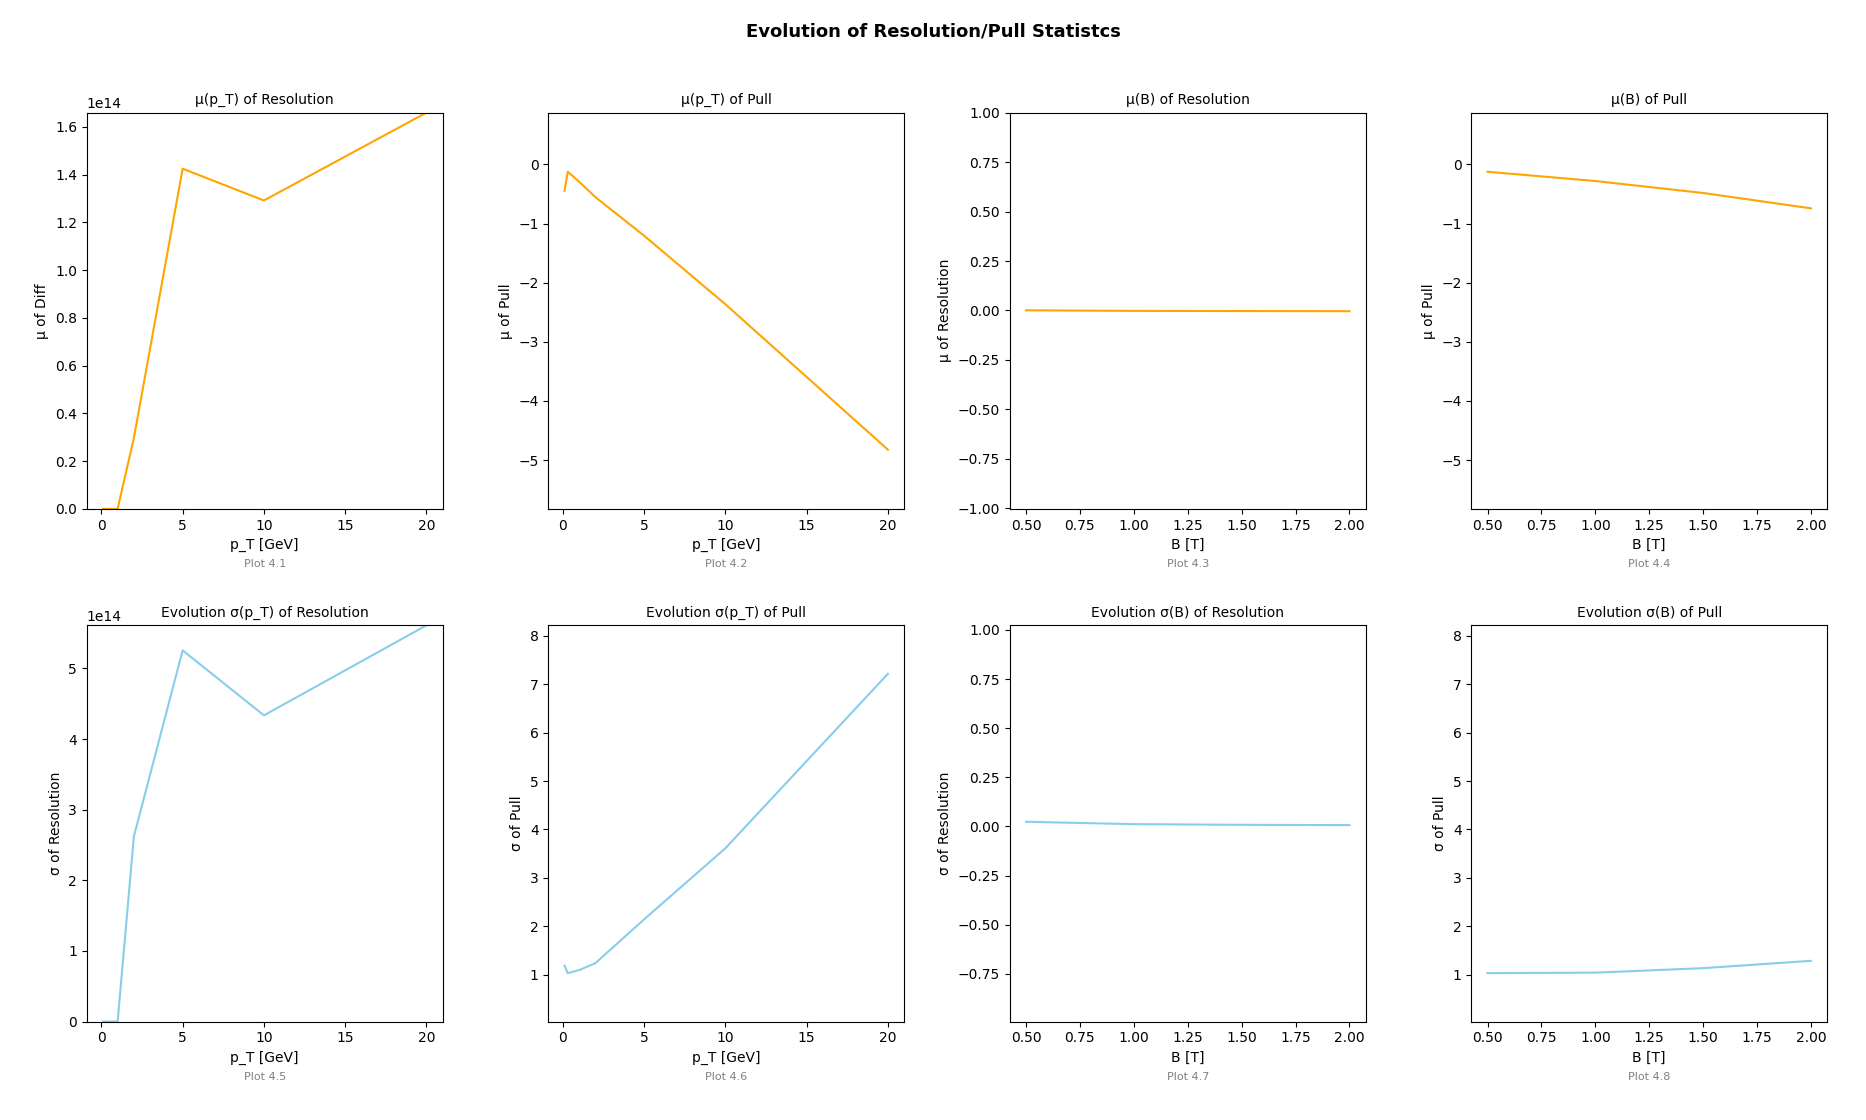
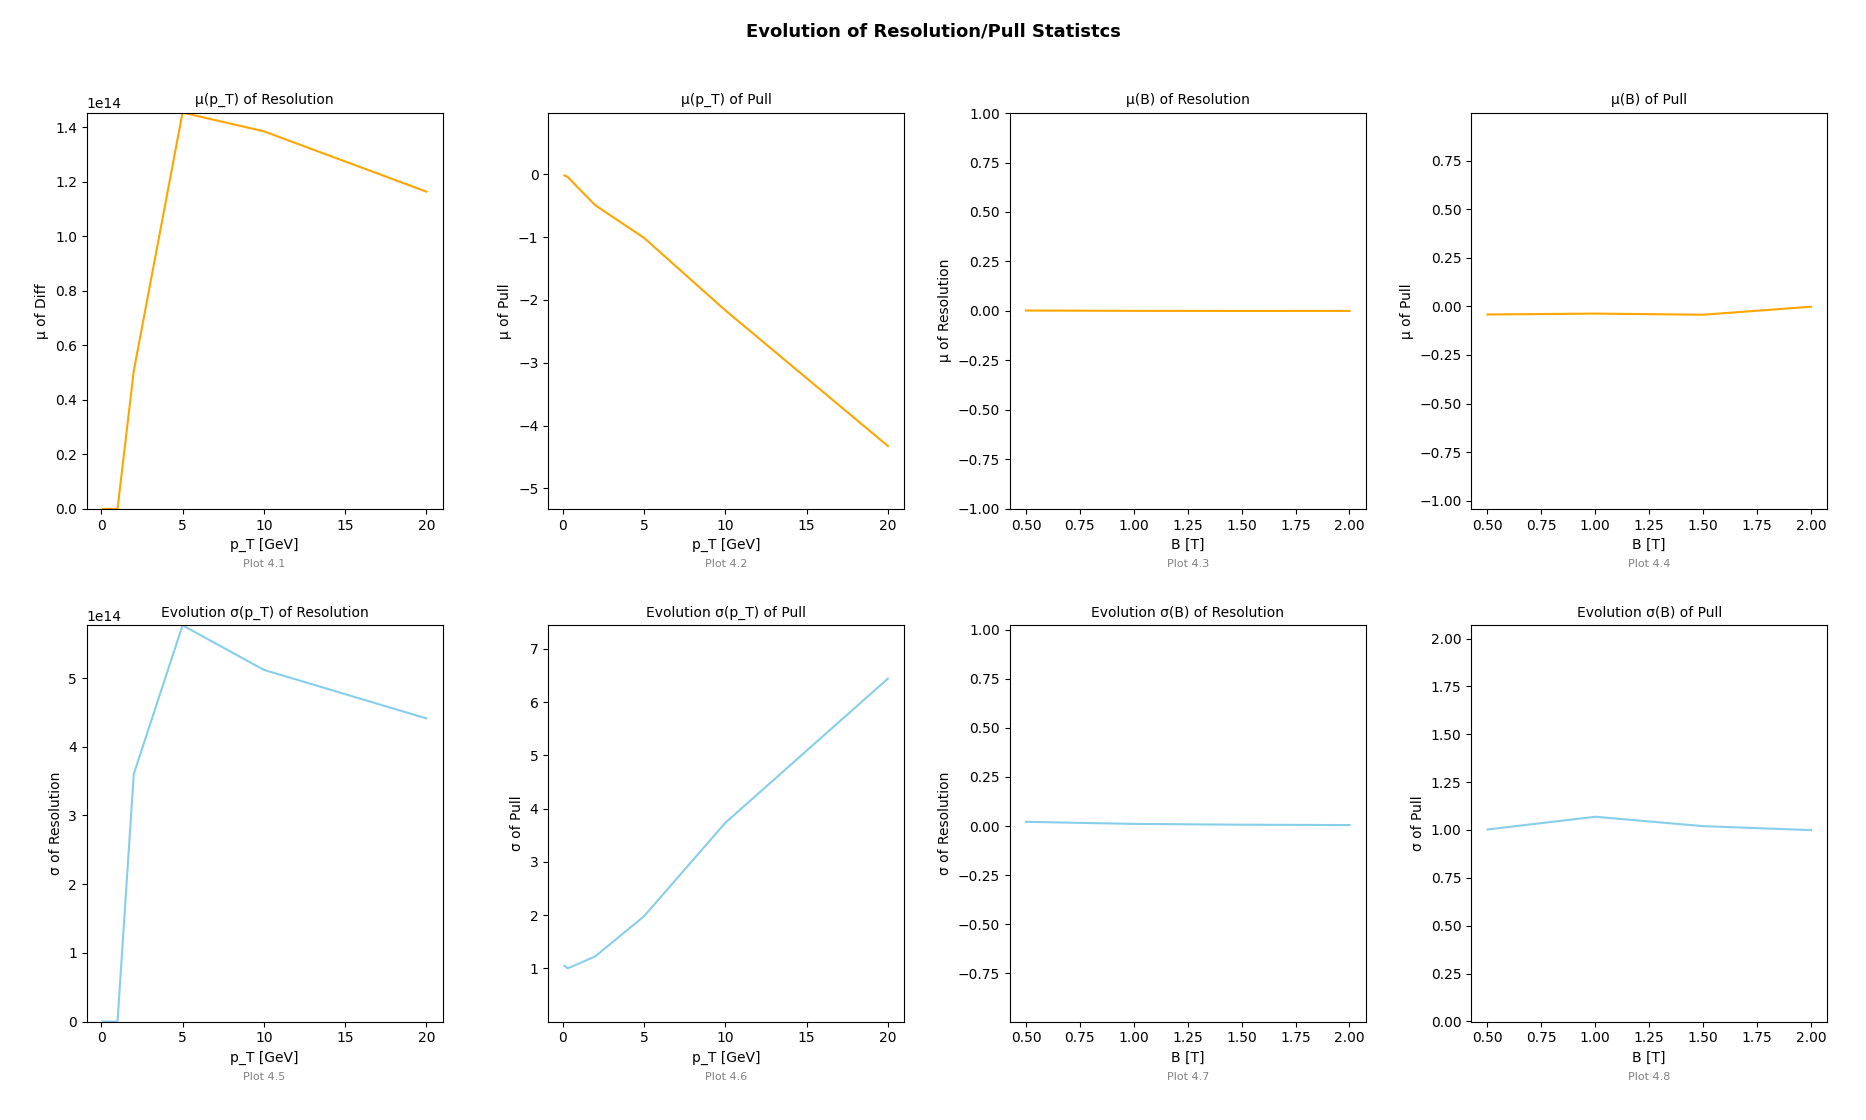
made new plots

diff --git a/Project.py b/Project.py
@@ -13,7 +13,7 @@ n_after = 3         # number of detection planes after magnet
 dZ = 20             # distance detector planes (2cm = 20mm)
 cellWidth = 0.5     # width of detection plane cells in 100 mikrometers (1mm is 1 then, 1cm is 10)
 L = 100             # Magnet Lenght
-B = 0.5             # strength of magnetic field in T
+B = 0.5            # strength of magnetic field in T
 
 
 # particle class
@@ -120,7 +120,7 @@ class Magnet:
     
         D = np.sin(phi_out) - np.sin(phi_in)
     
-        p_T_reconstructed = np.abs(0.3  * B * L * 1e-3 / D)   # 1e-3: mm → m
+        p_T_reconstructed = np.abs(0.3  * self.B * self.L * 1e-3 / D)   # 1e-3: mm → m
     
         s_0_term  = s_entry**2 + 1
         s_1_term  = s_output**2 + 1
@@ -528,7 +528,7 @@ def Momentum_Resolution():
     fig3, cx = plt.subplots(1, 2, figsize=(20, 12))
     cx = cx.flatten()
     fig3.suptitle("Pull distributions overlaid", fontsize=13, fontweight="bold")
-    x_ref = np.linspace(-200, 50, 2500)
+    x_ref = np.linspace(-20, 20, 2000)
     cx[0].plot(x_ref, norm.pdf(x_ref), linestyle="dashed", color="black", label="N(0,1) ideal")
     cx[1].plot(x_ref, norm.pdf(x_ref), linestyle="dashed", color="black", label="N(0,1) ideal")
     colors_pT = plt.cm.viridis(np.linspace(0, 1, 7))
@@ -866,7 +866,7 @@ def Momentum_Resolution():
 
     # plot information cx
     cx[0].axvline(0, color='grey', linewidth=0.8, alpha=0.5)
-    cx[0].set_xlim(-15, 5)
+    cx[0].set_xlim(-6, 6)
     cx[0].set_xlabel("Pull")
     cx[0].set_ylabel("Density")
     cx[0].set_title("Pull vs. p_T_true (B=0.5 T)", fontsize=10)
@@ -874,7 +874,7 @@ def Momentum_Resolution():
     cx[0].legend()
 
     cx[1].axvline(0, color='grey', linewidth=0.8, alpha=0.5)
-    cx[1].set_xlim(-70, 5)
+    cx[1].set_xlim(-5, 5)
     cx[1].set_xlabel("Pull")
     cx[1].set_ylabel("Density")
     cx[1].set_title("Pull vs. B (p_T_true=0.3 GeV)", fontsize=10)
@@ -890,8 +890,6 @@ def Momentum_Resolution():
     swap(p_T_stds_pull, 0, 1)
 
     # plot evolution pull/diff mean
-    minimum_rangey = np.min(p_T_means_pull)
-    maximum_rangey = np.max(p_T_means_diff)
     dx[0].plot(p_T_x_range, p_T_means_diff, color="orange")
     dx[0].set_xlabel("p_T [GeV]")
     dx[0].set_ylabel("μ of Diff")
@@ -966,7 +964,6 @@ def Momentum_Resolution():
     pulls = []
     t_tests = []
     
-    
     p_values_t_test_momentum = []
     p_values_t_test_tracking_s0 = []
     p_values_t_test_tracking_x0 = []
@@ -998,7 +995,6 @@ def Momentum_Resolution():
 
             #random sampling method
             #hit = generatePoints_random(p)
-            
             hitpoints.append(hit)
             
 
@@ -1006,7 +1002,6 @@ def Momentum_Resolution():
         p_Ts_unc = []
         x_line_reco_before_magnet = []
         x_line_reco_after_magnet = []
-        true_false= []
         pulls0 = []
         pullx0 = []
         for i, p in enumerate(particles):
@@ -1049,8 +1044,6 @@ def Momentum_Resolution():
             p_T_reco, p_T_reco_unc = magnet_10_0_5.reconstruct_momentum(p.q, p.s0reco, p.sMagnetreco, p.s0recoUncert, p.sMagnetrecoUncert)
             p_Ts_reco.append(p_T_reco)
             p_Ts_unc.append(p_T_reco_unc)
-
-            #true_false.append(np.any(hitpoints_unc[0] == 0))
 
         pulls0 = np.array(pulls0)
         pullx0 = np.array(pullx0)
@@ -1127,6 +1120,3 @@ def Momentum_Resolution():
 
 # run Part 4 Momentum Resolution
 Momentum_Resolution()
-
-
-#l. 340, (true_false function commented in/out)
